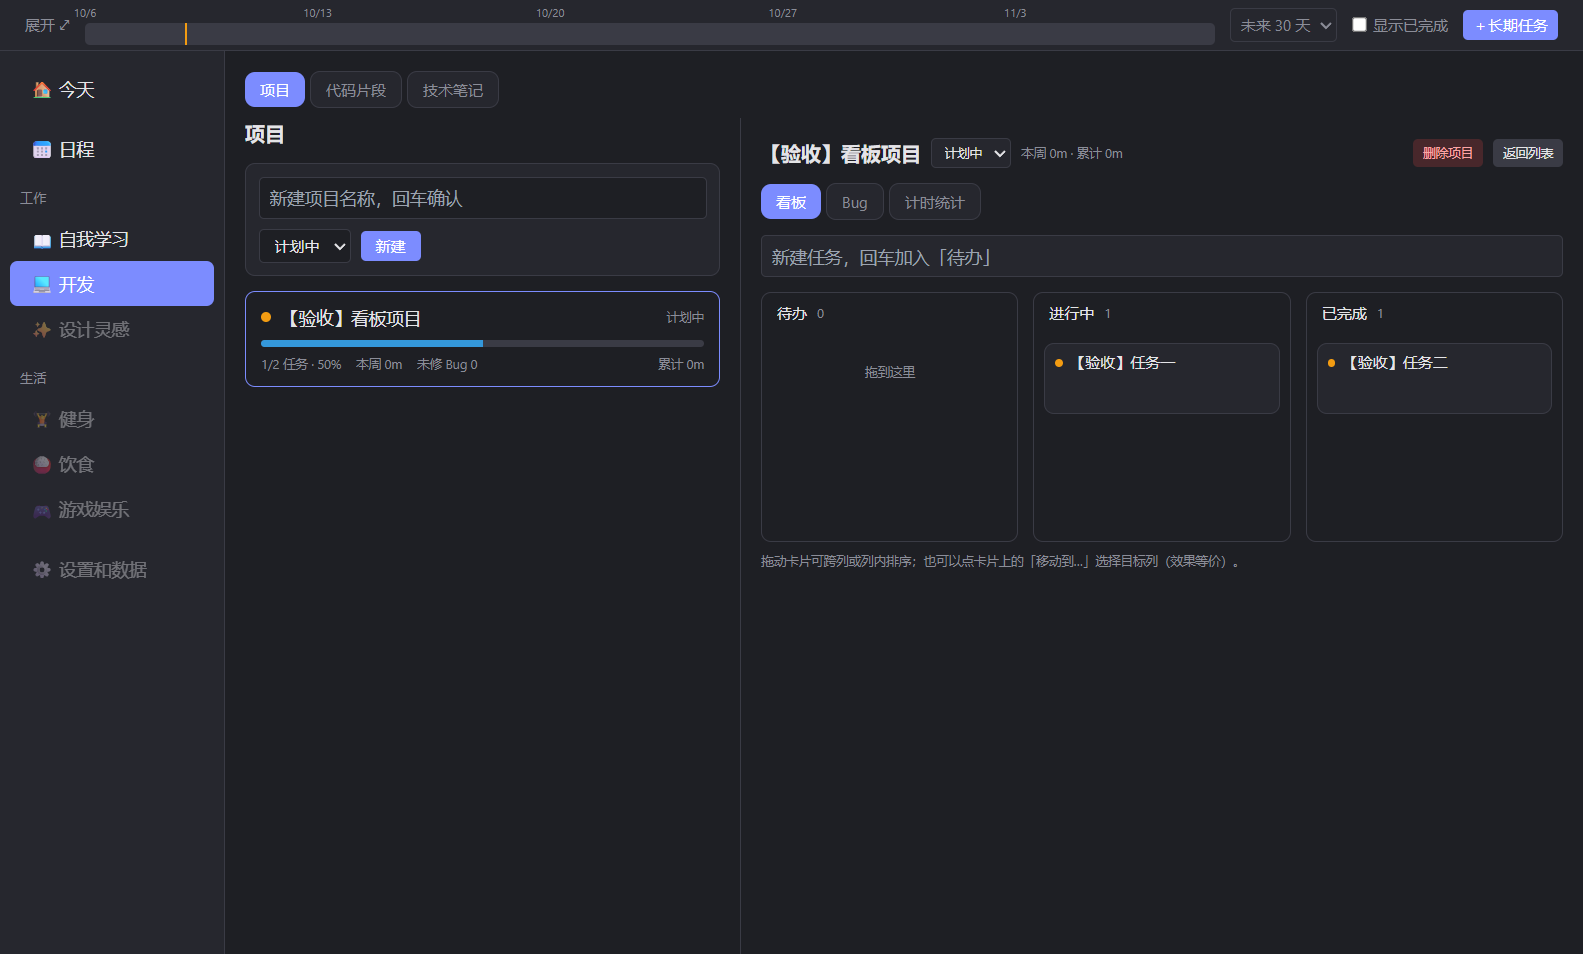
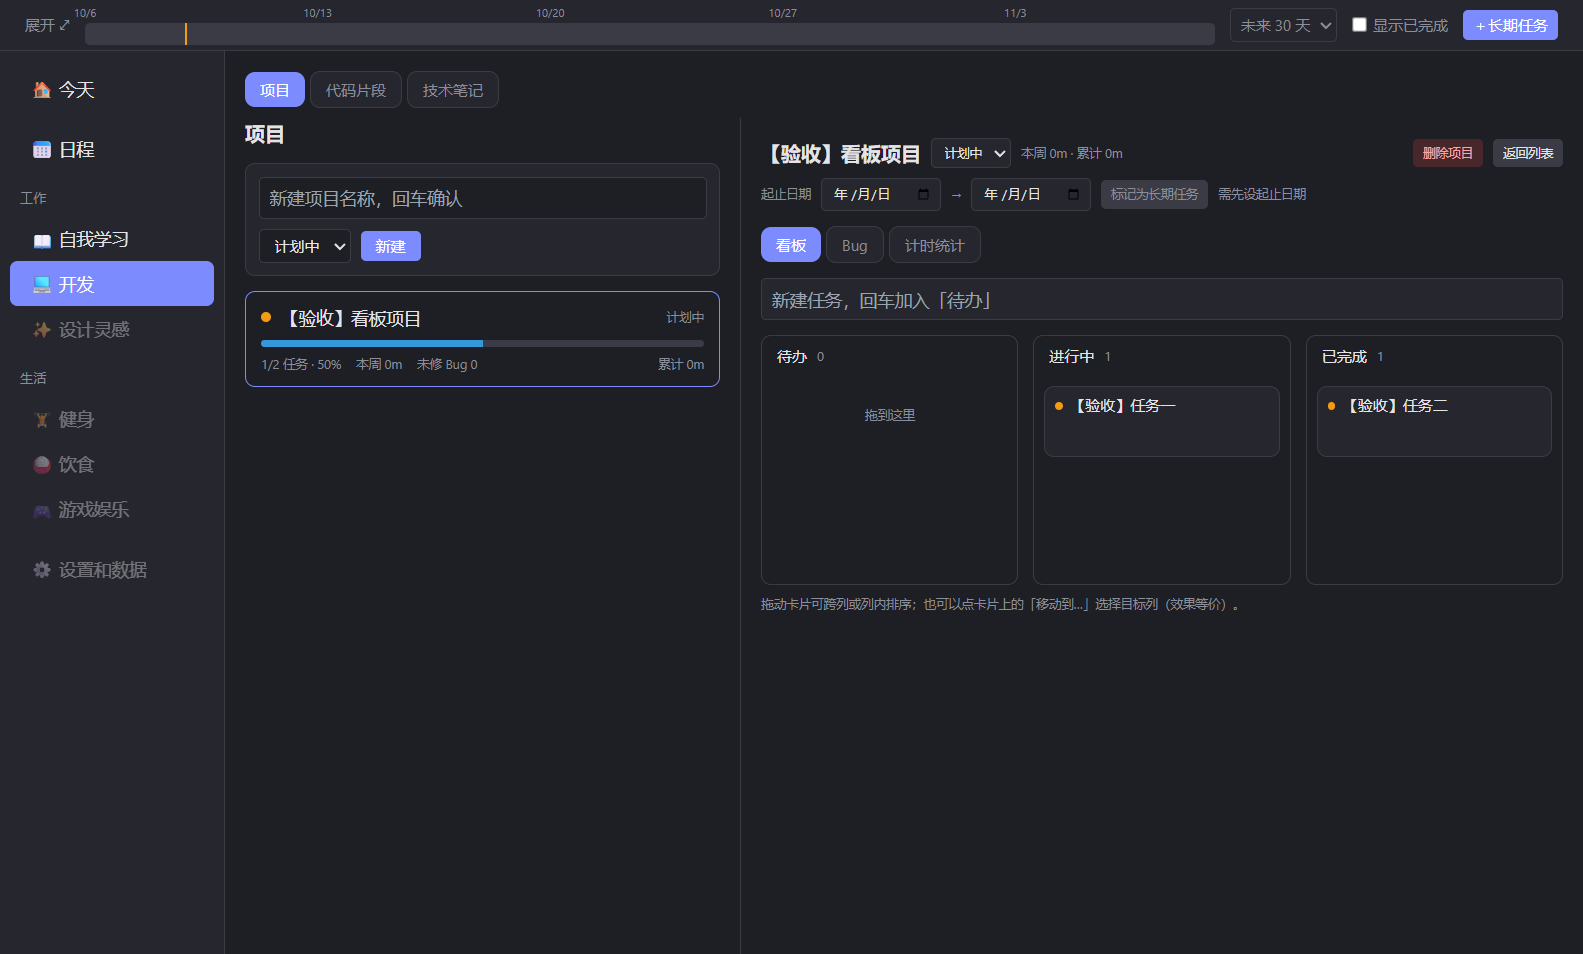
feat(M3-2): 项目「标记为长期任务」入口 + 起止日期编辑 + 阶段验收记录（E2E 27/27）

diff --git a/src/renderer/src/components/dev/ProjectMarkButton.tsx b/src/renderer/src/components/dev/ProjectMarkButton.tsx
@@ -1,0 +1,57 @@
+import type { Project } from '@shared/types'
+import { isMarkedFrom } from '@shared/longTaskSource'
+import { useLongTasksStore } from '../../stores/longTasksStore'
+import { useDevStore } from '../../stores/devStore'
+
+/** 把开发项目标记到时间轴上（开发模块蓝 #3498db） */
+export function ProjectMarkButton({ project }: { project: Project }): JSX.Element {
+  const { tasks, markFromSource, unmarkSource, error, clearError } = useLongTasksStore()
+  const devError = useDevStore((s) => s.error)
+
+  const marked = isMarkedFrom(tasks, 'dev', project.id)
+  const hasRange = !!project.start_date && !!project.end_date
+  const shownError = error ?? devError
+
+  const mark = async (): Promise<void> => {
+    if (!hasRange) return
+    await markFromSource({
+      title: project.name,
+      startDate: project.start_date!,
+      endDate: project.end_date!,
+      sourceModule: 'dev',
+      sourceId: project.id
+    })
+  }
+
+  return (
+    <div className="flex items-center gap-2">
+      {marked ? (
+        <>
+          <span className="text-[10px] px-2 py-0.5 rounded" style={{ background: '#3498db', color: '#0b1f12' }}>
+            已上轴
+          </span>
+          <button
+            onClick={() => void unmarkSource('dev', project.id)}
+            className="text-[10px] px-2 py-1 rounded bg-[var(--border)]"
+          >取消标记</button>
+        </>
+      ) : (
+        <button
+          onClick={() => void mark()}
+          disabled={!hasRange}
+          title={hasRange ? '把该项目标记到时间轴' : '需先在下方设置起止日期'}
+          className={`text-[10px] px-2 py-1 rounded ${
+            hasRange ? 'bg-[var(--accent)] text-white' : 'bg-[var(--border)] text-[var(--muted)] cursor-not-allowed'
+          }`}
+        >标记为长期任务</button>
+      )}
+      {!hasRange && <span className="text-[10px] text-[var(--muted)]">需先设起止日期</span>}
+      {shownError && (
+        <span className="text-[10px] text-red-300 flex items-center gap-1">
+          {shownError}
+          <button onClick={clearError} className="text-[var(--muted)]">✕</button>
+        </span>
+      )}
+    </div>
+  )
+}

diff --git a/src/renderer/src/components/dev/ProjectDetail.tsx b/src/renderer/src/components/dev/ProjectDetail.tsx
@@ -10,6 +10,7 @@ import { KanbanBoard } from './KanbanBoard'
 import { BugPanel } from './BugPanel'
 import { TimeStatsPanel } from './TimeStatsPanel'
 import { DevTimer } from './DevTimer'
+import { ProjectMarkButton } from './ProjectMarkButton'
 
 type Tab = 'board' | 'bugs' | 'time'
 
@@ -53,7 +54,7 @@ export function ProjectDetail({ projectId }: { projectId: number }): JSX.Element
 
   return (
     <div className="max-w-4xl">
-      <div className="flex items-center gap-2 mb-3">
+      <div className="flex items-center gap-2 mb-2 flex-wrap">
         <h2 className="text-base font-bold truncate">{project.name}</h2>
         <select
           value={project.status}
@@ -76,6 +77,24 @@ export function ProjectDetail({ projectId }: { projectId: number }): JSX.Element
             className="text-[10px] px-2 py-1 rounded bg-[var(--border)]"
           >返回列表</button>
         </div>
+      </div>
+
+      <div className="flex items-center gap-2 mb-3 flex-wrap">
+        <span className="text-[10px] text-[var(--muted)]">起止日期</span>
+        <input
+          type="date"
+          value={project.start_date ?? ''}
+          onChange={(e) => { void updateProject(project.id, { startDate: e.target.value || null }) }}
+          className="text-[10px] bg-[var(--card)] border border-[var(--border)] rounded px-1.5 py-1 outline-none"
+        />
+        <span className="text-[10px] text-[var(--muted)]">→</span>
+        <input
+          type="date"
+          value={project.end_date ?? ''}
+          onChange={(e) => { void updateProject(project.id, { endDate: e.target.value || null }) }}
+          className="text-[10px] bg-[var(--card)] border border-[var(--border)] rounded px-1.5 py-1 outline-none"
+        />
+        <ProjectMarkButton project={project} />
       </div>
 
       <div className="flex items-center gap-1 mb-3">

diff --git a/docs/plans/2026-10-09-m3-2-acceptance.md b/docs/plans/2026-10-09-m3-2-acceptance.md
@@ -1,0 +1,114 @@
+# M3-2 开发模块 验收记录
+
+- 日期：2026-10-09
+- 计划：[docs/plans/2026-10-09-m3-2-dev.md](./2026-10-09-m3-2-dev.md)
+- 对应 PRD：3.5 / 4.3 / 8.5.1（模块侧入口）/ 8.6.2
+- 上游总览：[docs/plans/2026-10-09-m3-overview.md](./2026-10-09-m3-overview.md)
+
+## 一、交付物
+
+| 层 | 文件 | 说明 |
+|---|---|---|
+| 迁移 | `src/main/db/index.ts` v4 | `projects` / `dev_tasks` / `bugs` / `snippets` / `tech_notes` / `dev_sessions` |
+| 类型 | `src/shared/types.ts` | 38 个开发相关类型（实体 + Input + Patch） |
+| 数据层 | `src/main/db/dev.ts` | 项目 CRUD + 统计、看板、Bug、片段、笔记、计时汇总 |
+| 纯函数 | `src/shared/kanban.ts` | `planMove`（跨列/列内重排）、`columnsOf`、`DEV_COLUMNS` |
+| 纯函数 | `src/shared/snippetFilter.ts` | `filterSnippets`（关键词 × 标签 AND）、`parseTags` |
+| 纯函数 | `src/shared/devStats.ts` | `minutesByProjectInRange` / `projectWeekMinutes` / `minutesByTask` |
+| IPC | 29 条 `dev:*` 通道 | main / preload / renderer 三处一致 |
+| 状态 | `devStore.ts` / `devTimerStore.ts` | 项目·看板·Bug·片段·笔记·会话 + 计时器 |
+| 界面 | `components/dev/*` | `DevPage` / `ProjectList` / `ProjectDetail` / `KanbanBoard` / `DevTimer` / `BugPanel` / `TimeStatsPanel` / `SnippetView` / `TechNoteView` / `ProjectMarkButton` |
+| 接线 | `App.tsx` / `Sidebar.tsx` | 「开发」从 disabled 打开并挂载页面 |
+
+## 二、自动化结果
+
+```
+npm test              24 文件 / 407 用例全绿     （M3-2 开工前：23 / 290 → +117）
+npm run typecheck     0 错误
+npm run build         三入口通过
+npx electron-builder  release/LifeOS Setup 0.1.0.exe（109.67 MB）
+```
+
+本阶段新增 **117 个用例**：迁移 5、项目数据层 19、看板纯函数 15 + 数据层 15、片段筛选 13、Bug/片段/笔记 27、开发计时 13、开发统计 10。
+
+## 三、端到端界面验证（CDP 驱动）
+
+脚本：`scripts/acceptance/m3-2-e2e.mjs`；截图：`docs/acceptance-shots/13~19`。
+
+| # | 验证项 | 结果 |
+|---|---|---|
+| 1 | 看板三列渲染 | ✅ |
+| 2 | 新建任务进入「待办」，列头计数正确 | ✅ |
+| 3 | 「移动到…」跨列 | ✅ |
+| 4 | **拖拽**跨列 | ✅ |
+| 5 | **刷新后看板位置持久** | ✅ |
+| 6 | 常驻计时器走字 | ✅ |
+| 7 | 停止后记录时长（卡片显示「已计 1m」） | ✅ |
+| 8–9 | Bug 页签渲染 + 新建 | ✅ |
+| 10–11 | Bug 状态流转 未修 → 修复中 → 已修复 | ✅ |
+| 12 | 项目卡片与页签徽标同步未修数（卡片 1 / 页签 `Bug 1`） | ✅ |
+| 13 | 计时统计：项目累计 + 按任务汇总 | ✅ |
+| 14 | 删除计时记录后累计归零且卡片同步 | ✅ |
+| 15–16 | 片段新建 + 关键词命中代码内容 | ✅ |
+| 17 | 无命中显示空状态 | ✅ |
+| 18 | 标签筛选只留命中项 | ✅ |
+| 19 | 清除筛选恢复全部 | ✅ |
+| 20–21 | 技术笔记关联项目显示项目名 / 不关联显示「未关联」 | ✅ |
+| 22 | 未设起止日期时标记按钮禁用 | ✅ |
+| 23 | 标记后时间轴出现**开发蓝块**（`#3498db`） | ✅ |
+| 24 | 取消标记后蓝块消失 | ✅ |
+
+**27 / 27 通过。**
+
+## 四、PRD 8.6.2 逐条对照
+
+| 验收项 | 证据 | 状态 |
+|---|---|---|
+| 项目列表：状态（计划中/开发中/暂停/已完成）、简介 | CHECK 约束 + 5 用例 + 卡片状态灯 | ✅ |
+| 任务看板三列拖拽，卡片带优先级与截止日 | `planMove` 15 用例 + E2E 拖拽 | ✅ |
+| 看板位置持久 | 事务落库 + E2E「刷新后仍保持」 | ✅ |
+| Bug 记录：现象、优先级、状态流转 | 数据层 10 用例 + E2E 两段流转 | ✅ |
+| 代码片段：标题/代码/语言/标签 + 关键词搜索 | `filterSnippets` 13 用例 + E2E 关键词与标签筛选 | ✅ |
+| 技术笔记：可关联项目 | 数据层 7 用例（含 SET NULL）+ E2E | ✅ |
+| 开发计时：手动开始/停止，按项目汇总 | 13 用例 + E2E 计时与统计 | ✅ |
+| 标记为长期任务（PRD 8.5.1 模块侧） | E2E 禁用/标记/取消 + 蓝色块 | ✅ |
+
+## 五、过程中的问题与修正
+
+1. **拖拽依赖 React 状态（真实脆弱点）**
+   初版把拖拽载荷存在组件状态 `drag.taskId`。React 18 批处理状态更新，`dragstart` 与 `drop` 落在同一批次时 `drop` 读到的是旧值 `null`，拖拽静默失效。真实浏览器拖拽因中间隔了多帧而侥幸可用。
+   **修正**：改为从 `dataTransfer.getData()` 读取任务 id，不再依赖组件状态。这是消除隐患，不是为测试让路。
+
+2. **本周计时缺少 task → project 映射**
+   设计时遗漏：`dev_sessions` 只记 `task_id`，而按项目汇总本周时长需要全部任务。补上 `listAllDevTasks()` + `dev:listAllTasks` 通道 + store 的 `allTasks`，并把该逻辑抽成可单测的 `minutesByProjectInRange`。
+
+3. **迁移测试写死版本号（第三次踩坑）**
+   v4 落地后 M3-1 的 v3 测试立即失败（断言 `user_version === 3`）。统一改为引用 `LATEST_VERSION`，并验证文件中再无写死版本数字。
+
+4. **PowerShell 写入 UTF-8 BOM**
+   用 `Set-Content -Encoding UTF8` 做机械替换时被写入 BOM（与仓库其他文件不一致）。已清除并全仓库体检确认无 BOM。结论：**不要用 PowerShell 写源文件**。
+
+5. **E2E 脚本自身的问题（非产品缺陷）**
+   - 项目卡片文本是「名称 + 状态 + 统计」拼接，精确匹配找不到 → 改用包含匹配；同时发现一处**假通过**（选中从未发生，断言"不显示"自然成立）。
+   - `Page.reload` 会清空注入的辅助函数 → 把注入源码提为常量，重载后重新注入。
+   - T12 里项目**仍处于选中状态**却又点了一次卡片，触发取消选中导致日期输入框消失 → 改为「已选中就不再点」。
+
+## 六、设计决定（值得留在代码里）
+
+1. **计时器失败不丢时间**：`devTimerStore.stop()` 只在成功写库后才清空 `running`；失败时计时继续保留。
+2. **只记录已结束的会话**：进行中的计时只存在渲染端内存，应用崩溃不会留下没有结束时间的悬挂记录。
+3. **看板排序是纯函数**：`planMove` 不碰数据库，数据层只负责在事务里落库；跨列移动后两列 position 均为连续 `0..n-1`。
+4. **删除项目的两种关联语义**：看板任务/Bug/计时 `CASCADE`；技术笔记 `SET NULL`（笔记保留，仅解除关联）。
+
+## 七、仍待人工确认
+
+1. 界面观感（截图 `13~19` 已存档，未由人眼确认）
+2. 真实鼠标拖拽的手感（E2E 用的是合成 DragEvent；「移动到…」已作为等价路径验证）
+3. 大量卡片时的看板性能（当前只有个位数卡片）
+
+## 八、与设计文档的偏差（M5 回写）
+
+1. `dev_tasks` 增加 `priority` 列 —— 设计文档 §7.3 未列，PRD §3.5 要求「卡片带优先级、截止日」
+2. `dev_tasks.column` 实际列名为 **`column_name`** —— `column` 是 SQLite 保留字
+3. `tech_notes.project_id` 采用 `ON DELETE SET NULL` —— 项目删除后笔记保留
+4. 计时统计页签为新增（设计文档未明确，PRD §4.3 要求「按项目汇总」，落地为「按任务汇总 + 最近记录」）
